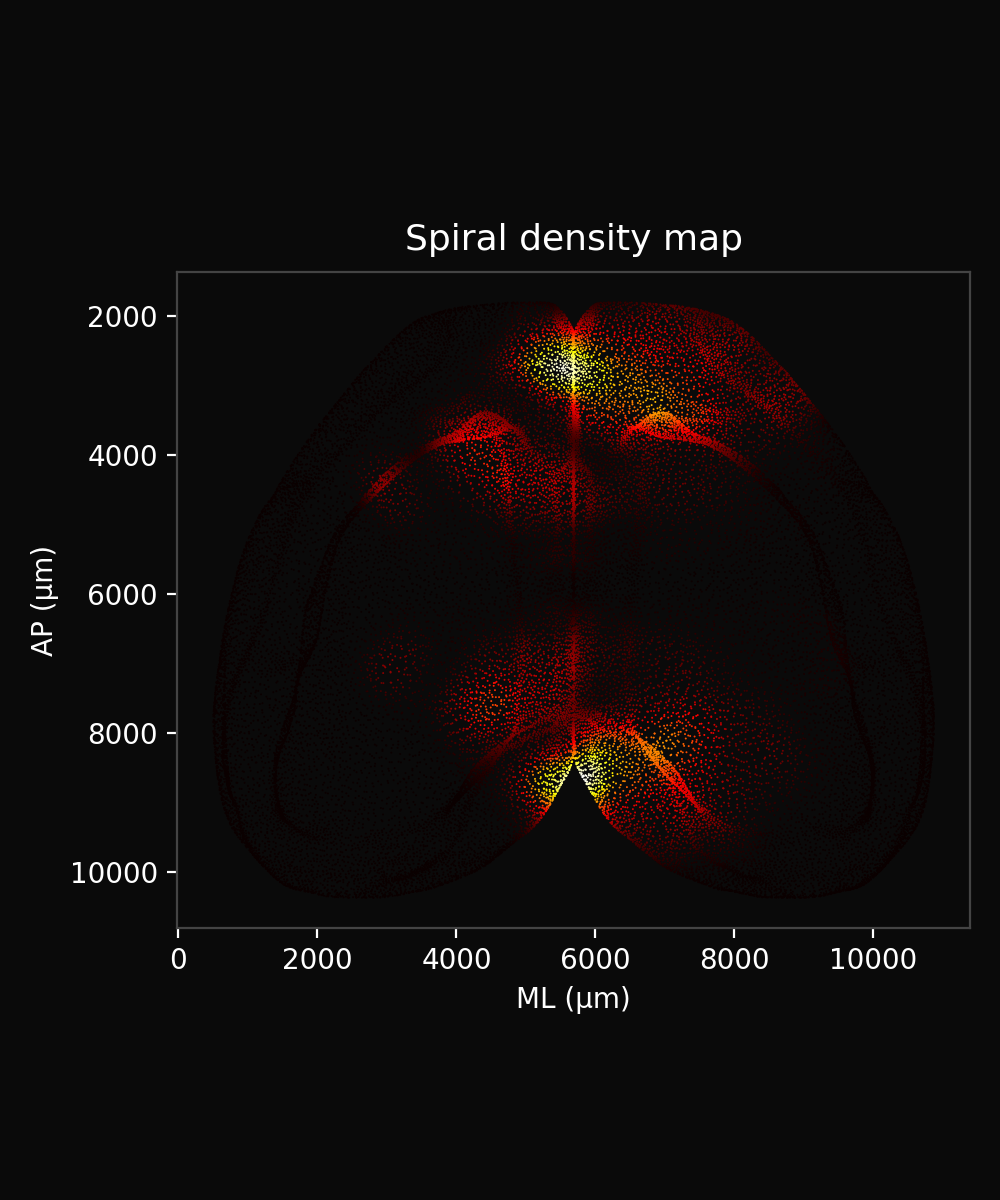
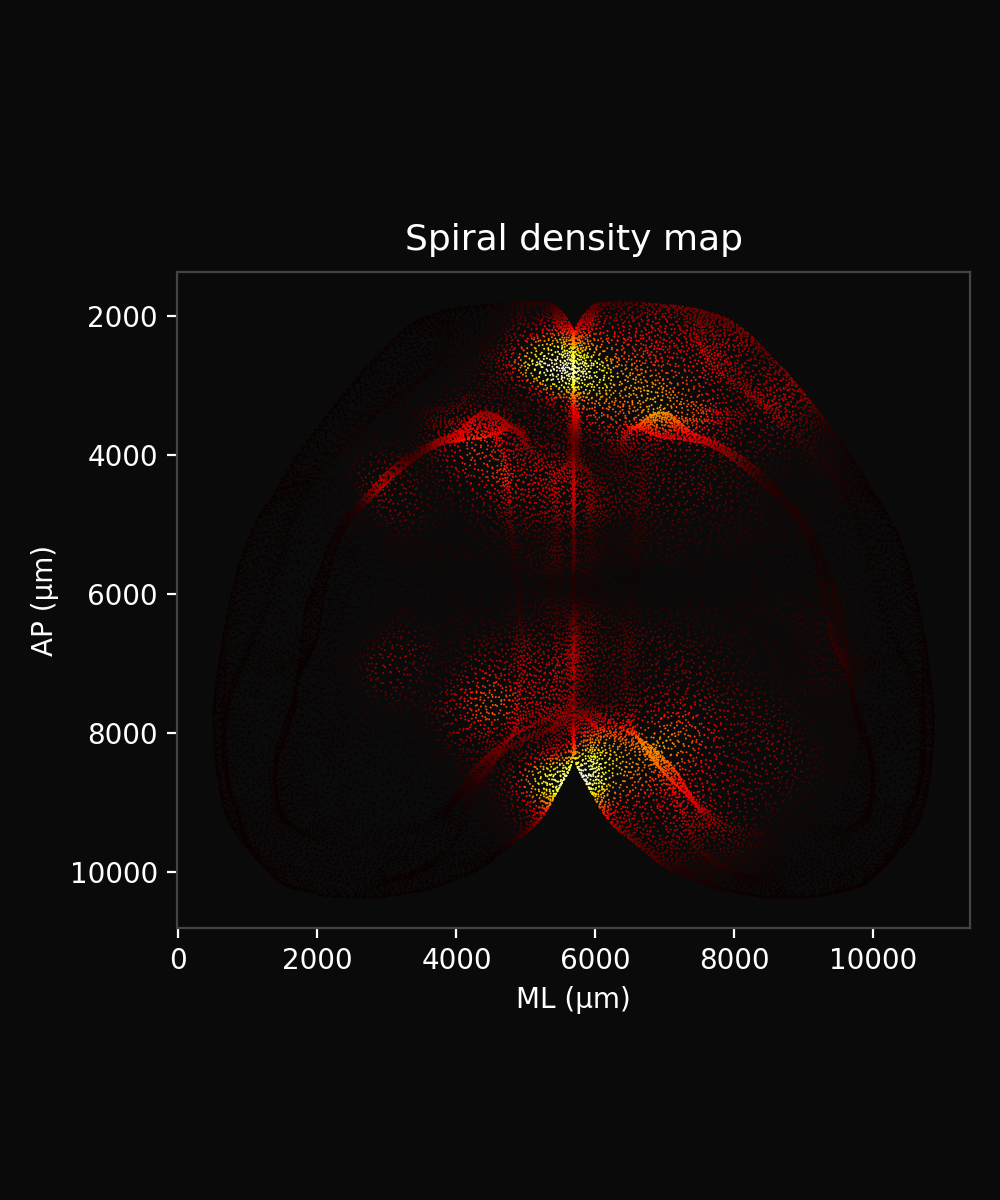
Fix density map axis swap: col0=ML, col1=AP in spiral_density.mat
spiral_density.mat columns are [ML_voxel, AP_voxel, density], not
[AP, ML] as previously assumed. Both scripts now correctly assign
col1→AP and col0→ML (×10 to convert voxel indices to µm), and use
griddata (scattered → regular grid) matching the original notebook.

diff --git a/scripts/02b_density_to_vertex_colors.py b/scripts/02b_density_to_vertex_colors.py
@@ -3,19 +3,20 @@ Step 2b: Convert spiral-detection density data into per-vertex RGBA colors for
 the isocortex mesh, saved as vertex_colors_density.npy.
 
 INPUT FORMAT:
-    unique_spirals.npy  —  shape (N, 3), columns [AP_um, ML_um, density].
-    Column 2 is the pre-computed density value for each detected spiral event
-    (e.g. from spiral_density.mat).  Convert with mat73 if starting from .mat:
+    unique_spirals.npy  —  shape (N, 3), columns [ML_voxel, AP_voxel, density].
+    Columns 0 and 1 are voxel indices in the 10 µm CCF space (multiply by 10
+    to get µm).  Column 2 is the pre-computed density value.
+    Convert from spiral_density.mat with mat73:
         import mat73, numpy as np
         d = mat73.loadmat("spiral_density.mat")
         np.save("unique_spirals.npy", np.array(d["unique_spirals"], dtype=np.float32))
 
 Pipeline:
-    1. Bin (AP, ML) coordinates into a 2D histogram, weighted by density column.
-    2. Smooth with a Gaussian kernel for visual quality.
+    1. Scale voxel indices → µm (×10).
+    2. Interpolate scattered (AP, ML, density) onto a regular 2D grid with griddata.
     3. Apply the 'hot' colormap (black → red → yellow → white).
-    4. Interpolate per-vertex, identical to 02_phasemap_to_vertex_colors.py.
-    5. Save vertex_colors_density.npy (N, 4) RGBA, float32.
+    4. Interpolate RGB image onto mesh vertices (same as 02_phasemap_to_vertex_colors.py).
+    5. Save vertex_colors_density.npy — shape (N, 4) RGBA, float32.
 
 Run in a normal Python env (NOT inside Blender):
     pip install trimesh scipy matplotlib numpy
@@ -24,106 +25,79 @@ Run in a normal Python env (NOT inside Blender):
 
 import numpy as np
 import trimesh
-from scipy.interpolate import RegularGridInterpolator
-from scipy.ndimage import gaussian_filter
+from scipy.interpolate import RegularGridInterpolator, griddata
 import matplotlib.pyplot as plt
 
 # ---------------------------------------------------------------------------
 # CONFIG (EDIT THESE)
 # ---------------------------------------------------------------------------
-MESH_PATH      = "isocortex.obj"
-SPIRALS_PATH   = "unique_spirals.npy"       # (N, 3): [AP_um, ML_um, density]
-OUT_PATH       = "vertex_colors_density.npy"
+MESH_PATH    = "isocortex.obj"
+SPIRALS_PATH = "unique_spirals.npy"        # (N, 3): [ML_voxel, AP_voxel, density]
+OUT_PATH     = "vertex_colors_density.npy"
 
-# Density image resolution (pixels per axis, matched to 25 μm atlas)
-AP_BINS        = 1320
-ML_BINS        = 1140
-AP_TOTAL_UM    = 13200.0
-ML_TOTAL_UM    = 11400.0
+AP_BINS      = 1320
+ML_BINS      = 1140
+AP_TOTAL_UM  = 13200.0
+ML_TOTAL_UM  = 11400.0
 
-AP_AXIS        = 0   # vertices[:, AP_AXIS] is the AP coordinate
-ML_AXIS        = 2   # vertices[:, ML_AXIS] is the ML coordinate
-DV_AXIS        = 1   # used for optional dorsal-facing mask
-
-# Gaussian smoothing kernel width in pixels (increase for smoother map)
-SMOOTH_SIGMA   = 8.0
-
-CMAP           = "hot"   # matplotlib colormap: 'hot', 'inferno', 'viridis', …
-DORSAL_THRESH  = 0.3     # set to 0 to disable ventral masking
-GRAY           = [0.15, 0.15, 0.15, 1.0]
+CMAP         = "hot"
+GRAY         = [0.0, 0.0, 0.0, 1.0]   # black for out-of-FOV (matches hot low end)
 
 # ---------------------------------------------------------------------------
-# 1. LOAD MESH + SPIRAL COORDINATES
+# 1. LOAD MESH
 # ---------------------------------------------------------------------------
-mesh        = trimesh.load(MESH_PATH)
-vertices    = mesh.vertices        # (N, 3) in CCF μm
-normals     = mesh.vertex_normals  # (N, 3)
-
-spirals     = np.load(SPIRALS_PATH)   # (N, 3)
-ap_pts      = spirals[:, 0]
-ml_pts      = spirals[:, 1]
-density_wts = spirals[:, 2]           # pre-computed density value per point
+mesh     = trimesh.load(MESH_PATH)
+vertices = mesh.vertices        # (N, 3) in CCF µm
 
 # ---------------------------------------------------------------------------
-# 2. BUILD 2D DENSITY IMAGE VIA WEIGHTED HISTOGRAM + SMOOTHING
+# 2. LOAD SPIRAL COORDINATES AND SCALE TO µm
 # ---------------------------------------------------------------------------
-ap_edges = np.linspace(0, AP_TOTAL_UM, AP_BINS + 1)
-ml_edges = np.linspace(0, ML_TOTAL_UM, ML_BINS + 1)
-
-# weights=density_wts: each point contributes its density value to the bin
-# rather than a count of 1, so the pre-computed density is preserved.
-density_img, _, _ = np.histogram2d(ap_pts, ml_pts,
-                                   bins=[ap_edges, ml_edges],
-                                   weights=density_wts)
-density_img       = gaussian_filter(density_img, sigma=SMOOTH_SIGMA)
+spirals = np.load(SPIRALS_PATH)   # (N, 3)
+# col0 = ML voxel index, col1 = AP voxel index, col2 = density
+ml_pts  = spirals[:, 0] * 10     # ML voxels → µm
+ap_pts  = spirals[:, 1] * 10     # AP voxels → µm
+density = spirals[:, 2]
 
 # ---------------------------------------------------------------------------
-# 3. APPLY COLORMAP → RGB IMAGE
+# 3. INTERPOLATE SCATTER → REGULAR 2D GRID
 # ---------------------------------------------------------------------------
-d_min, d_max  = density_img.min(), density_img.max()
-density_norm  = (density_img - d_min) / (d_max - d_min + 1e-12)
+ap_axis = np.linspace(0, AP_TOTAL_UM, AP_BINS)
+ml_axis = np.linspace(0, ML_TOTAL_UM, ML_BINS)
+Xq, Yq = np.meshgrid(ap_axis, ml_axis, indexing='ij')   # (AP, ML) grid
 
-cmap          = plt.cm.get_cmap(CMAP)
-rgb_img       = cmap(density_norm)[:, :, :3].astype(np.float32)  # drop alpha
+density_map = griddata((ml_pts, ap_pts), density,
+                        (Xq, Yq), method='linear', fill_value=0)
 
 # ---------------------------------------------------------------------------
-# 4. BUILD PER-CHANNEL INTERPOLATORS
+# 4. APPLY HOT COLORMAP
 # ---------------------------------------------------------------------------
-ap_coords = np.linspace(0, AP_TOTAL_UM, AP_BINS)
-ml_coords = np.linspace(0, ML_TOTAL_UM, ML_BINS)
+d_min, d_max  = density_map.min(), density_map.max()
+density_norm  = np.clip((density_map - d_min) / (d_max - d_min + 1e-12), 0, 1)
 
-def make_interp(channel):
+cmap    = plt.colormaps["hot"]
+rgb_img = cmap(density_norm)[:, :, :3].astype(np.float32)   # (AP, ML, 3)
+
+# ---------------------------------------------------------------------------
+# 5. INTERPOLATE RGB IMAGE ONTO MESH VERTICES
+# ---------------------------------------------------------------------------
+def make_interp(ch):
     return RegularGridInterpolator(
-        (ap_coords, ml_coords),
-        rgb_img[:, :, channel],
-        method="linear",
-        bounds_error=False,
-        fill_value=np.nan,
-    )
+        (ap_axis, ml_axis), rgb_img[:, :, ch],
+        method="linear", bounds_error=False, fill_value=np.nan)
 
-interp_r = make_interp(0)
-interp_g = make_interp(1)
-interp_b = make_interp(2)
+query = np.column_stack([vertices[:, 0], vertices[:, 2]])   # (AP, ML) per vertex
+r = make_interp(0)(query)
+g = make_interp(1)(query)
+b = make_interp(2)(query)
 
 # ---------------------------------------------------------------------------
-# 5. QUERY EACH VERTEX
+# 6. ASSEMBLE AND SAVE
 # ---------------------------------------------------------------------------
-query = np.column_stack([vertices[:, AP_AXIS], vertices[:, ML_AXIS]])
-r = interp_r(query)
-g = interp_g(query)
-b = interp_b(query)
-
-# ---------------------------------------------------------------------------
-# 6. MASK & SAVE
-# ---------------------------------------------------------------------------
-out_of_fov = np.isnan(r)
-non_dorsal = normals[:, DV_AXIS] < DORSAL_THRESH
-invalid    = out_of_fov   # swap to `out_of_fov | non_dorsal` to also mask ventral
-
-vertex_colors           = np.column_stack([r, g, b, np.ones(len(vertices))])
-vertex_colors[invalid]  = GRAY
-vertex_colors           = np.clip(vertex_colors, 0.0, 1.0).astype(np.float32)
+invalid       = np.isnan(r)
+vertex_colors = np.column_stack([r, g, b, np.ones(len(vertices))])
+vertex_colors[invalid] = GRAY
+vertex_colors = np.clip(vertex_colors, 0.0, 1.0).astype(np.float32)
 
 np.save(OUT_PATH, vertex_colors)
-print(f"wrote {OUT_PATH}  shape={vertex_colors.shape}  "
-      f"({(~invalid).sum()} / {len(vertices)} vertices colored)")
+print(f"Saved {OUT_PATH}  shape={vertex_colors.shape}  "
+      f"({(~invalid).sum()}/{len(vertices)} vertices colored)")

diff --git a/scripts/generate_previews.py b/scripts/generate_previews.py
@@ -5,48 +5,47 @@ import trimesh
 import matplotlib
 matplotlib.use('Agg')
 import matplotlib.pyplot as plt
-from scipy.interpolate import RegularGridInterpolator
-from scipy.ndimage import gaussian_filter
+from scipy.interpolate import RegularGridInterpolator, griddata
 
 SAMPLE = "sample_data"
 AP_BINS, ML_BINS = 1320, 1140
 AP_UM, ML_UM     = 13200.0, 11400.0
-SMOOTH_SIGMA     = 8.0
-GRAY             = [0.15, 0.15, 0.15, 1.0]
+GRAY             = [0.0, 0.0, 0.0, 1.0]
 
 # ── 1. Convert spiral_density.mat → unique_spirals.npy ───────────────────
 data = mat73.loadmat(f"{SAMPLE}/spiral_density.mat")
 s = np.array(data["unique_spirals"], dtype=np.float32)
-s[:, 0] *= 10   # AP pixel indices → µm  (10 µm per pixel)
-s[:, 1] *= 10   # ML pixel indices → µm
+# Columns: [ML_voxel, AP_voxel, density]  (voxel indices in 10 µm CCF space)
 np.save(f"{SAMPLE}/unique_spirals.npy", s)
-print(f"unique_spirals: AP {s[:,0].min():.0f}–{s[:,0].max():.0f} µm  "
-      f"ML {s[:,1].min():.0f}–{s[:,1].max():.0f} µm")
+ml_pts  = s[:, 0] * 10   # ML voxels → µm
+ap_pts  = s[:, 1] * 10   # AP voxels → µm
+density = s[:, 2]
+print(f"unique_spirals: AP {ap_pts.min():.0f}–{ap_pts.max():.0f} µm  "
+      f"ML {ml_pts.min():.0f}–{ml_pts.max():.0f} µm")
 
-# ── 2. Build density image from weighted histogram ────────────────────────
-ap_edges = np.linspace(0, AP_UM, AP_BINS + 1)
-ml_edges = np.linspace(0, ML_UM, ML_BINS + 1)
-density_img, _, _ = np.histogram2d(s[:,0], s[:,1],
-                                   bins=[ap_edges, ml_edges],
-                                   weights=s[:,2])
-density_img = gaussian_filter(density_img, sigma=SMOOTH_SIGMA)
-density_norm = (density_img - density_img.min()) / (density_img.max() - density_img.min() + 1e-12)
-rgb_density = plt.cm.get_cmap("hot")(density_norm)[:, :, :3].astype(np.float32)
+# ── 2. Interpolate scattered density → regular 2D grid ───────────────────
+ap_axis = np.linspace(0, AP_UM, AP_BINS)
+ml_axis = np.linspace(0, ML_UM, ML_BINS)
+Xq, Yq = np.meshgrid(ap_axis, ml_axis, indexing='ij')
 
-# ── 3. Interpolate density onto mesh vertices ─────────────────────────────
+density_map  = griddata((ml_pts, ap_pts), density,
+                         (Xq, Yq), method='linear', fill_value=0)
+density_norm = np.clip((density_map - density_map.min()) /
+                       (density_map.max() - density_map.min() + 1e-12), 0, 1)
+rgb_density  = plt.colormaps["hot"](density_norm)[:, :, :3].astype(np.float32)
+
+# ── 3. Interpolate density RGB onto mesh vertices ─────────────────────────
 mesh     = trimesh.load(f"{SAMPLE}/isocortex.obj")
 vertices = mesh.vertices
-ap_coords = np.linspace(0, AP_UM, AP_BINS)
-ml_coords = np.linspace(0, ML_UM, ML_BINS)
-query = np.column_stack([vertices[:, 0], vertices[:, 2]])
+query    = np.column_stack([vertices[:, 0], vertices[:, 2]])   # (AP, ML)
 
-def interp_channel(img, ch):
+def interp_ch(img, ch):
     return RegularGridInterpolator(
-        (ap_coords, ml_coords), img[:, :, ch],
+        (ap_axis, ml_axis), img[:, :, ch],
         method="linear", bounds_error=False, fill_value=np.nan)(query)
 
-r, g, b = interp_channel(rgb_density, 0), interp_channel(rgb_density, 1), interp_channel(rgb_density, 2)
-invalid = np.isnan(r)
+r, g, b = interp_ch(rgb_density, 0), interp_ch(rgb_density, 1), interp_ch(rgb_density, 2)
+invalid    = np.isnan(r)
 vc_density = np.column_stack([r, g, b, np.ones(len(vertices))])
 vc_density[invalid] = GRAY
 vc_density = np.clip(vc_density, 0.0, 1.0).astype(np.float32)